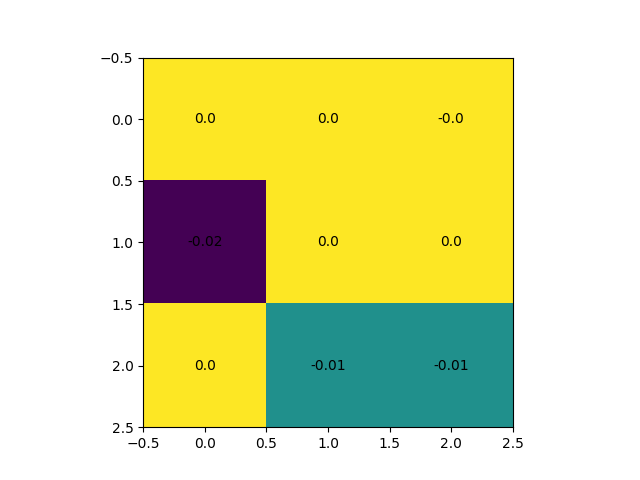
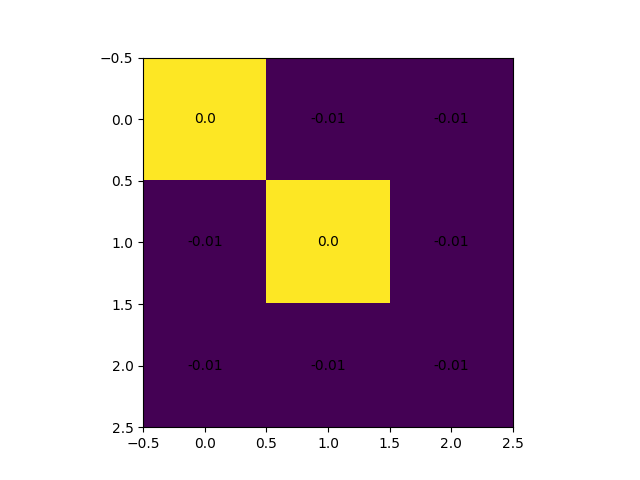
running tests and adding results to folders

Changed region(s): [[0.2188, 0.125, 0.8125, 0.9062]]

diff --git a/Q-Learning_Maze/qlearning.py b/Q-Learning_Maze/qlearning.py
@@ -5,7 +5,7 @@ import matplotlib.pyplot as plt
 
 #Hyperparameters
 alpha = .5
-num_episodes = 1001
+num_episodes = 500
 eps = 0.01
 testing_iter = 1000
 Map = MAP4
@@ -60,10 +60,9 @@ def evaluate_greedy_policy(qlearning, env, niter=100):
             next_state, reward, done = env.step(action)
 
             # Q update
-            action = qlearning.update(state, action, reward, next_state, done)
+            action, _ = optimal_policy(qlearning.Q, next_state)
 
-            state = next_state
-        if reward >= 90:
+        if reward == 100:
             num_succ += 1
     return 100 * num_succ/niter
 
@@ -71,15 +70,15 @@ def evaluate_greedy_policy(qlearning, env, niter=100):
 if __name__ == "__main__":
 
     env = GridWorld(Map)
-    qlearning = QLearning(env.get_num_states(), env.get_num_actions(), alpha=alpha)
-    returns_list = []
+    num_states = env.get_num_states()
+    qlearning = QLearning(num_states, env.get_num_actions(), alpha=alpha)
+    success_rate_list = []
     first_state_Qs = []
-    sum_of_100_returns = 0
-    episodes_to_save_Q = [0, 10, 100, 500, 1000]
 
-    for i in range(num_episodes):
+    episodes_to_save_Q = [0, 10, 100, 250, 500]
+    episodes_to_save_success_rate = list(range(0, num_episodes+1, 10))
+    for i in range(num_episodes + 1):
 
-        total_returns = 0
         done = False
         state = env.reset()
 
@@ -101,56 +100,36 @@ if __name__ == "__main__":
 
 
             state = next_state
-            total_returns += reward
 
-        returns_list.append(total_returns)
+        if i in episodes_to_save_Q:
+            currentQ_flattened = np.zeros((num_states))
+            for state in range(num_states):
+                currentQ_flattened[state] = np.max(qlearning.Q[state])
+            currentQ = currentQ_flattened.reshape((env.n_rows, env.n_cols)).round(decimals=2)
 
-        # # Code to save Q_Max at states on Map 4
-        # if i in episodes_to_save_Q:
-        #     flattened_max_Q = np.amax(qlearning.Q,axis=1)
-        #     max_Q = np.around(flattened_max_Q.reshape((env.n_rows, env.n_cols)))
+            for (m, l), label in np.ndenumerate(currentQ):
+                plt.text(l, m, label, ha='center', va='center')
+            plt.imshow(currentQ)
+            plt.savefig('results/QFunction/QFunction_After_{}_Episodes'.format(i))
 
-        #     for (m, l), label in np.ndenumerate(max_Q):
-        #         plt.text(l, m, label, ha='center', va='center')
-        #     plt.imshow(max_Q)
-        #     # plt.savefig('{}_Iterations.png'.format(i))
-        #     plt.show()
-        #     plt.close()
-
+            plt.show()
+            plt.close()
 
 
-    # print("Rolling out final policy")
-    # done = False
-    # state = env.reset()
-    # action, _ = optimal_policy(qlearning.Q, state)
-    #
-    # while not done:
-    #     next_state, reward, done = env.step(action)
-    #     action = qlearning.update(state, action, reward, next_state, done)
-    #     state = next_state
-    #     env.print()
-
-    # evaluate the greedy policy to see how well it performs
-    frac = evaluate_greedy_policy(qlearning, env, testing_iter)
-    print("Finding goal " + str(frac) + "% of the time.")
+        if i in episodes_to_save_success_rate:
+            print(i)
+            # evaluate the greedy policy to see how well it performs
+            frac = evaluate_greedy_policy(qlearning, env, testing_iter)
+            success_rate_list.append(frac)
+            print("Finding goal " + str(frac) + "% of the time.")
 
     #This code is for plotting returns of the training policy on map 3
-    plt.plot(range(num_episodes), returns_list)
-    plt.title('Q-Learning Training on Map4')
-    plt.ylabel('Returns')
-    plt.xlabel('Iterations')
-    plt.savefig('QLearning_Training_Map4.png')
+    plt.plot(range(len(success_rate_list)), success_rate_list)
+    plt.title('Q-Learning Training')
+    plt.ylabel('% Success w/ Optimal Policy')
+    plt.xlabel('Iterations in 10\'s')
+    plt.savefig('results/QLearning_Maze_Training.png')
 
-
-    # #This code is for plotting the q-value of the first state on map 2
-    # state = env.reset()
-    # optimal_first_state_Q = np.max(qlearning.Q[state])
-    # plt.plot(range(num_episodes), first_state_Qs, label='Q-value Training')
-    # plt.plot(range(num_episodes), [optimal_first_state_Q] * num_episodes, label='Optimal Q-value')
-    # plt.title('Starting State Q-Value on Map2')
-    # plt.ylabel('Q-Value of First State')
-    # plt.xlabel('Iterations')
-    # plt.legend(loc='best')
-    # # plt.savefig('Starting_State_QValue_Map2.png')
-    # plt.show()
+    plt.show()
+    plt.close()
 

diff --git a/TicTacToe_Minimax/Minimax_Q_Learning.py b/TicTacToe_Minimax/Minimax_Q_Learning.py
@@ -4,7 +4,7 @@ import itertools
 
 #HYPERPARAMETERS IN Q-LEARNING. RUN CODE IN TEST.PY
 #Hyperparameters
-num_runs = 3
+num_runs = 20
 num_episodes = 100000
 qfunction_checkpoint = 20000
 gameplay_checkpoint = 10000

diff --git a/TicTacToe_Naiive/Q_Learning.py b/TicTacToe_Naiive/Q_Learning.py
@@ -3,7 +3,7 @@ import operator
 
 #HYPERPARAMETERS IN Q-LEARNING. RUN CODE IN TEST.PY
 #Hyperparameters
-num_runs = 3
+num_runs = 20
 num_episodes = 100000
 qfunction_checkpoint = 20000
 gameplay_checkpoint = 10000
